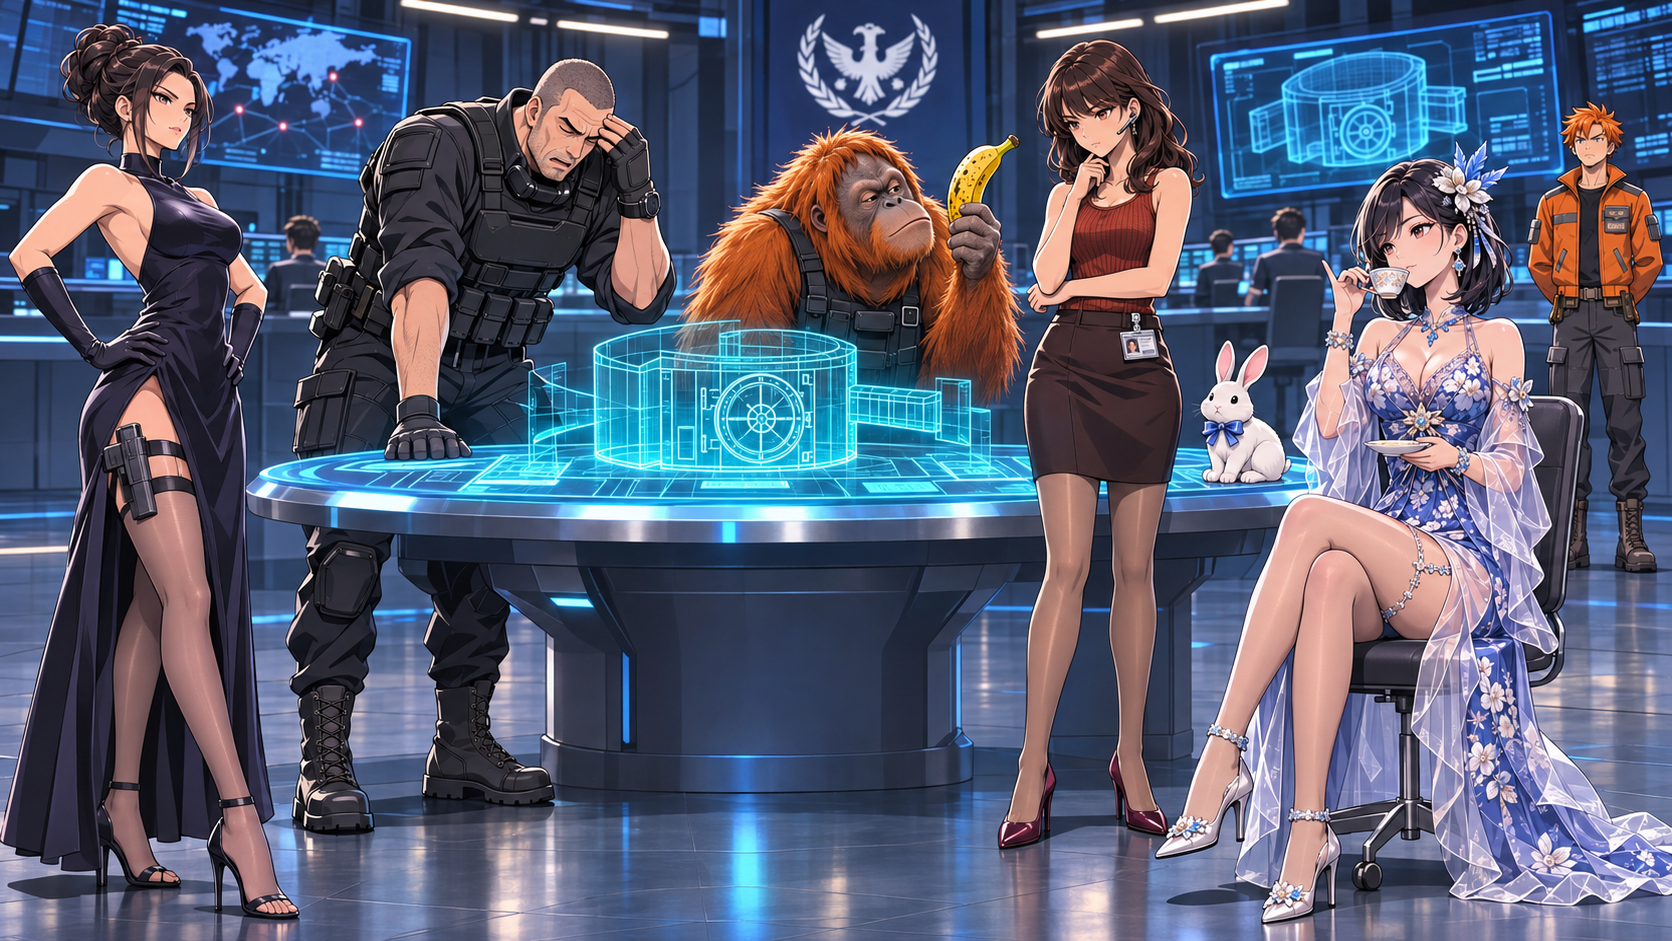
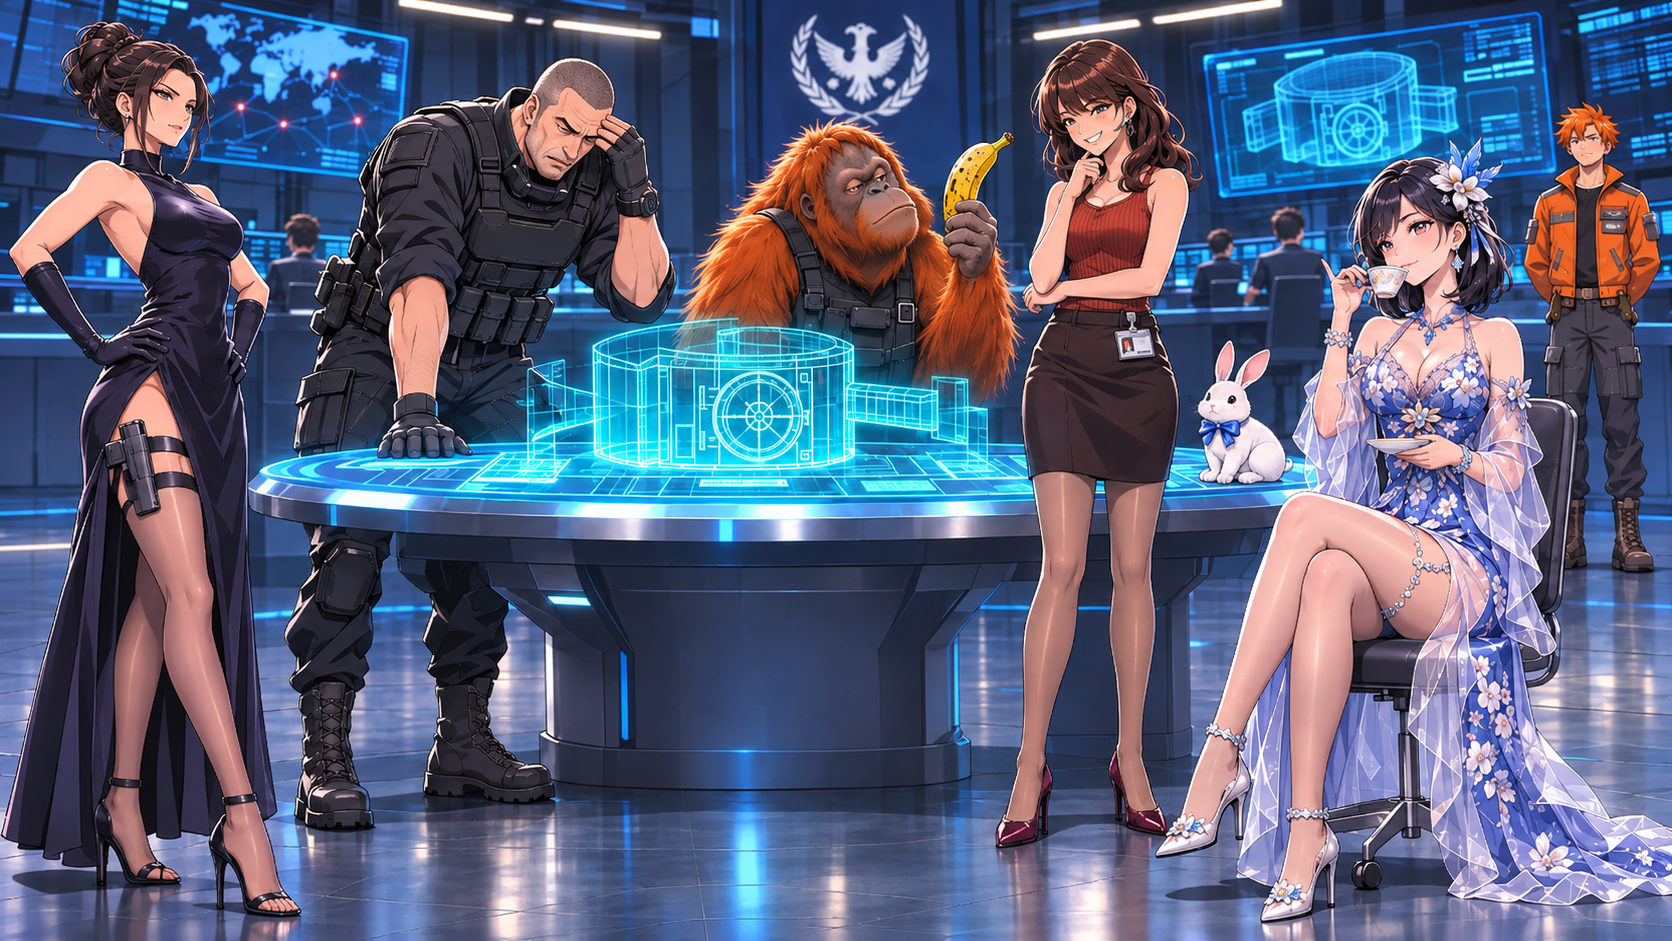
Update 1.png, 7.png, 8.png keyframes and align storyboard to modern anime style

diff --git a/PLANNING_CHANGELOG.md b/PLANNING_CHANGELOG.md
@@ -38,6 +38,8 @@
   - Unified all keyframe and video prompts (`prompt_1`–`prompt_10`, EN & HK) to the modern high-budget anime style.
   - Updated `Ep2_Shot_08` and `Ep2_Shot_12` to replace civilians Airi & Nia with **Agent Naomi Brooks** and **Agent Evelyn Carter** alongside **Agent Isabella Chen**.
   - Updated `Ep2_Shot_10` action so Maya holds her pistol in her right hand with a warm smile and reaches her left hand backward for gear, only for silent Barnaby to hand her a banana.
+- **Updated Keyframe First-Frames (`ep2_shots/1.png`, `7.png`, `8.png`)**:
+  - Replaced `ep2_shots/1.png` (`Warm Smile, Steady Hold.png`), `ep2_shots/7.png` (`Maya and Barnaby’s Grand Hotel Arrival.png`), and `ep2_shots/8.png` (`Gala Balcony Toast at Dusk.png`) with upgraded modern 2020s anime keyframes aligned to the new character & style rules, completing the full prompt & keyframe upgrade.
 
 ### [2026-11-12] - Act II Keyframes Completed (8.png, 9.png, 10.png) & Video Prompts Prepared
 - **Keyframe Standardization & Renaming**:
